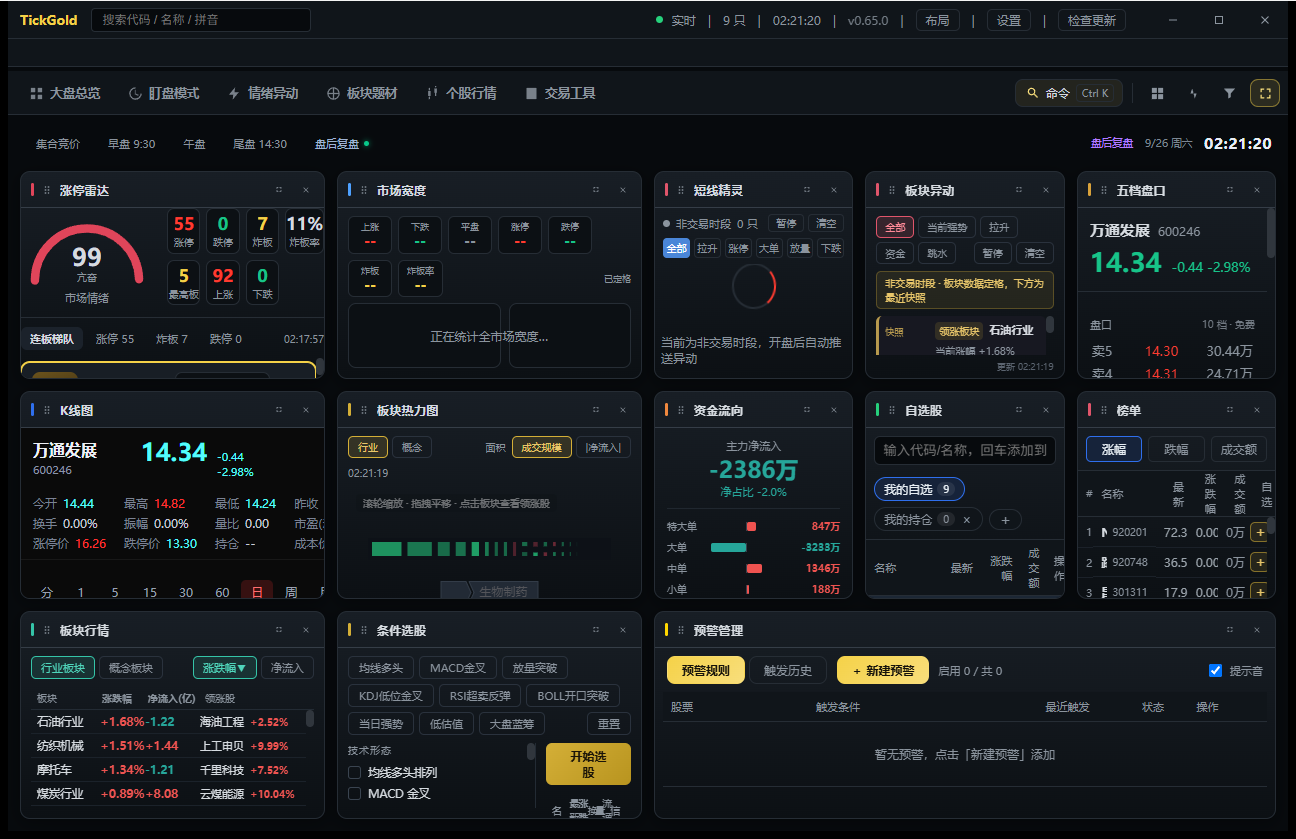
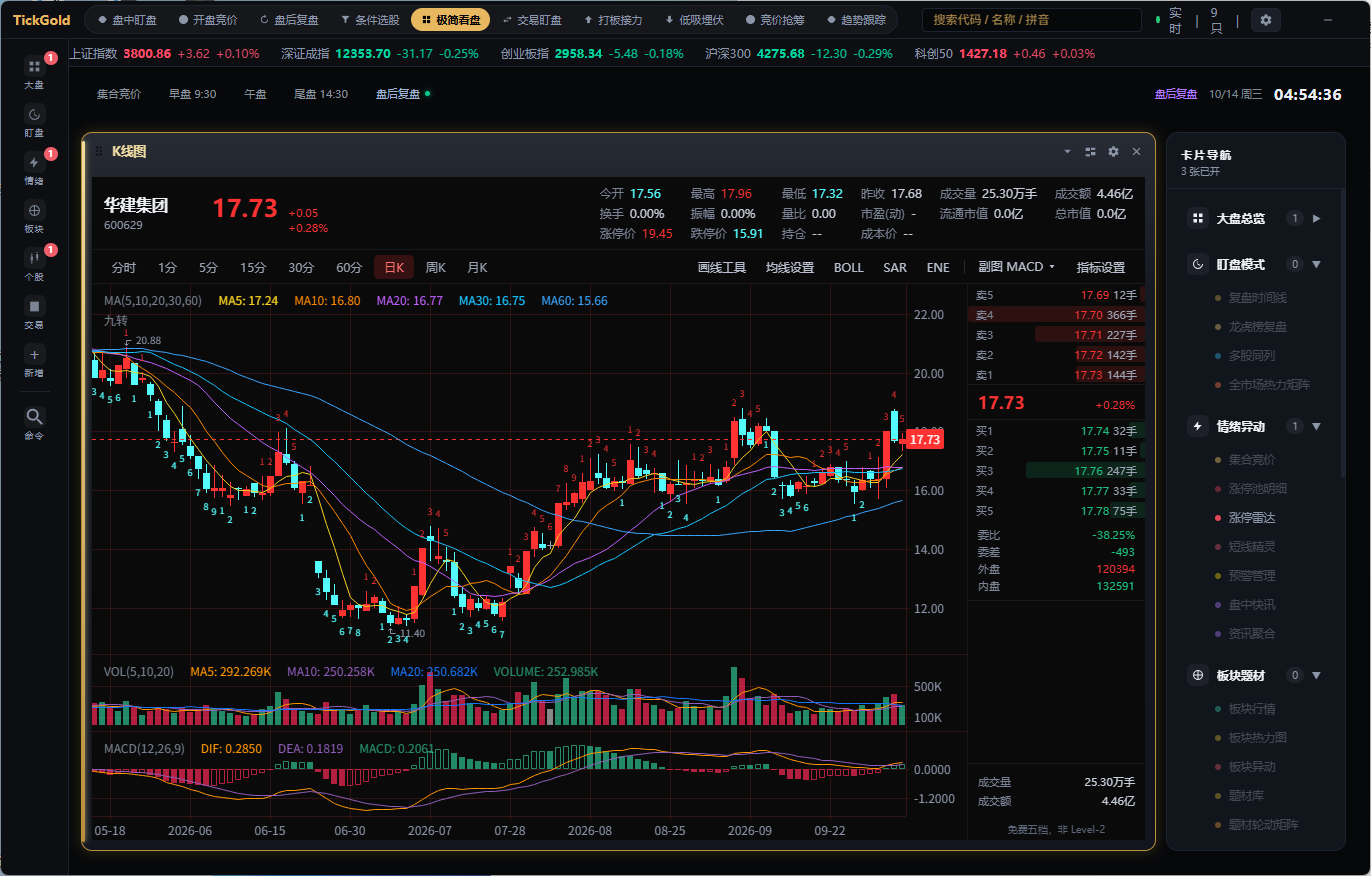
更新 v2.27.0 官方截图：复盘工作台、灵动岛预警、外观设置、进化回灌
替换 v0.65.0 旧截图，同步更新 README、官网与文档中的引用与说明；
新增忽略 .omc/ 本地状态目录及 _secret_* 敏感截图。

diff --git a/index.html b/index.html
@@ -175,27 +175,30 @@
       </div>
 
       <div class="screenshot-showcase reveal">
-        <img src="docs/screenshots/01-workbench.png" alt="主工作台全景" id="main-screenshot" />
+        <img src="docs/screenshots/01-workbench.png" alt="盘后复盘工作台" id="main-screenshot" />
         <div class="screenshot-caption">
-          <h4>主工作台全景</h4>
-          <span>涨停雷达 · 市场宽度 · 板块热力图 · K线 · 资金流向 · 自选股 · 榜单</span>
+          <h4>盘后复盘工作台</h4>
+          <span>日K线 · 均线/MACD · 五档盘口 · 卡片导航</span>
         </div>
       </div>
 
       <div class="screenshot-thumbs reveal">
-        <div class="screenshot-thumb active" data-src="docs/screenshots/01-workbench.png" data-title="主工作台全景" data-sub="涨停雷达 · 市场宽度 · 板块热力图 · K线 · 资金流向 · 自选股 · 榜单">
-          <img src="docs/screenshots/01-workbench.png" alt="主工作台" />
+        <div class="screenshot-thumb active" data-src="docs/screenshots/01-workbench.png" data-title="盘后复盘工作台" data-sub="日K线 · 均线/MACD · 五档盘口 · 卡片导航">
+          <img src="docs/screenshots/01-workbench.png" alt="盘后复盘" />
         </div>
-        <div class="screenshot-thumb" data-src="docs/screenshots/02-island.png" data-title="灵动岛悬浮条" data-sub="常驻顶部显示当前标的价格涨跌幅，点击展开主窗口">
+        <div class="screenshot-thumb" data-src="docs/screenshots/02-island.png" data-title="灵动岛 · 预警列表" data-sub="预警/信号/委托聚合，一键置顶关注标的">
           <img src="docs/screenshots/02-island.png" alt="灵动岛" />
         </div>
-        <div class="screenshot-thumb" data-src="docs/screenshots/03-shortcuts.png" data-title="快捷键速查面板" data-sub="Ctrl/⌘ + / 随时呼出，全键盘可操作">
-          <img src="docs/screenshots/03-shortcuts.png" alt="快捷键" />
+        <div class="screenshot-thumb" data-src="docs/screenshots/03-settings-appearance.png" data-title="设置 · 外观主题" data-sub="6 种配色主题即时切换，开机自启等启动选项">
+          <img src="docs/screenshots/03-settings-appearance.png" alt="外观设置" />
+        </div>
+        <div class="screenshot-thumb" data-src="docs/screenshots/04-evo-lab.png" data-title="进化回灌实验室" data-sub="历史决策自动评判，胜率与盈亏比持续追踪">
+          <img src="docs/screenshots/04-evo-lab.png" alt="进化回灌" />
         </div>
       </div>
 
       <p style="text-align:center; margin-top:24px; font-size:0.85rem; color:var(--text-muted);">
-        截图拍摄于 v0.65.0，最新 v2.27.0 已新增 Mega 菜单、AI 问数、快脑决策等功能，最新截图将在交易日补拍更新。
+        截图拍摄于 v2.27.0 盘后复盘环境。
       </p>
     </div>
   </section>

diff --git a/docs/截图与演示.md b/docs/截图与演示.md
@@ -8,11 +8,12 @@
 
 | 文件 | 内容 | 建议用途 |
 | --- | --- | --- |
-| `01-workbench.png` | 主工作台全景：涨停雷达、市场宽度、短线精灵、板块异动、五档盘口、K 线、板块热力图、资金流向、自选股、榜单、板块行情、条件选股、预警管理 | README 头图、手册首页 |
-| `02-island.png` | 灵动岛悬浮条：常驻顶部显示当前标的、价格、涨跌幅，点击展开 | 介绍灵动岛形态 |
-| `03-shortcuts.png` | 键盘快捷键速查面板（`Ctrl/⌘ + /`） | 快捷键 / 可访问性章节 |
+| `01-workbench.png` | 盘后复盘工作台：日 K 线、均线 / MACD、五档盘口、卡片导航 | README 头图、手册首页 |
+| `02-island.png` | 灵动岛展开形态：预警 / 信号 / 委托聚合列表，一键置顶 | 介绍灵动岛形态 |
+| `03-settings-appearance.png` | 设置 · 外观页：开机自启、6 种配色主题网格 | 设置 / 个性化章节 |
+| `04-evo-lab.png` | 进化回灌实验室：历史决策评判、胜率与盈亏比、爬虫日志 | AI 进化 / 复盘章节 |
 
-> **版本说明**：现有截图拍摄于 v0.65.0 版本，界面布局与当前 v2.27.0 存在差异（如 Mega 菜单、AI 问数、快脑决策等新功能未体现）。正式宣传素材建议在交易日 09:25–15:00 之间补拍最新版本，以呈现实时数据与红绿色块。
+> **版本说明**：以上截图拍摄于 v2.27.0 版本盘后复盘环境。盘中实时画面（涨停雷达、板块热力图等红绿色块）建议在交易日 09:25–15:00 之间补拍。
 
 ## 二、待补截图与拍摄步骤
 

diff --git a/README.md b/README.md
@@ -13,19 +13,23 @@
 
 ## 截图
 
-![主工作台](docs/screenshots/01-workbench.png)
+![盘后复盘工作台](docs/screenshots/01-workbench.png)
 
-*主工作台：涨停雷达、市场宽度、板块热力图、K 线、资金流向、自选股、榜单、条件选股、预警管理，一屏看全盘面。*
+*盘后复盘：日 K 线 + 五档盘口 + 卡片导航，技术指标与画线工具齐备。*
 
-![灵动岛悬浮条](docs/screenshots/02-island.png)
+![灵动岛 · 预警列表](docs/screenshots/02-island.png)
 
-*灵动岛悬浮条：常驻屏幕顶部，显示当前标的价格与涨跌幅，老板键一键隐藏。*
+*灵动岛展开形态：预警 / 信号 / 委托聚合，一键置顶关注标的。*
 
-![快捷键速查](docs/screenshots/03-shortcuts.png)
+![设置 · 外观主题](docs/screenshots/03-settings-appearance.png)
 
-*快捷键速查面板：`Ctrl/⌘ + /` 随时呼出，全键盘可操作。*
+*设置外观页：6 种配色主题即时切换，开机自启等启动选项。*
 
-> 截图拍摄于 v0.65.0，最新 v2.27.0 界面已新增 Mega 菜单、AI 问数、快脑决策等功能，最新截图将在交易日补拍更新。
+![进化回灌实验室](docs/screenshots/04-evo-lab.png)
+
+*进化回灌：机器人历史决策自动评判，胜率与盈亏比持续追踪进化。*
+
+> 截图拍摄于 v2.27.0（盘后复盘环境）。
 
 ---
 

diff --git a/docs/README.md b/docs/README.md
@@ -6,7 +6,7 @@ TickGold 是一款**跨平台 A 股盯盘桌面终端**（Tauri 2 + Rust + Vue 3
 - 开源协议：[MIT](../LICENSE)
 - 最新版本：见 [Releases](https://github.com/mhxy881126/tickgold-public/releases)
 
-![TickGold 主工作台](screenshots/01-workbench.png)
+![TickGold 盘后复盘工作台](screenshots/01-workbench.png)
 
 ## 快速开始
 
